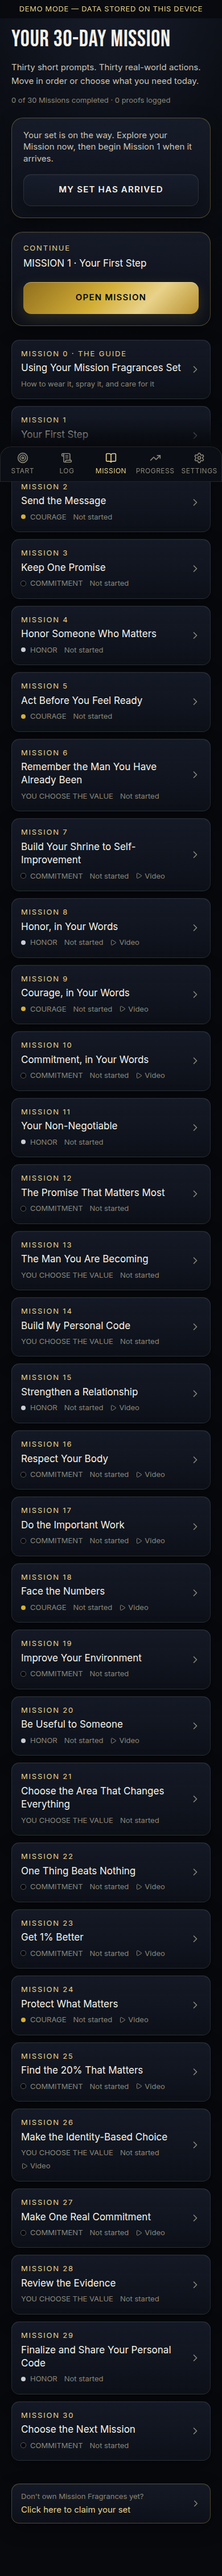
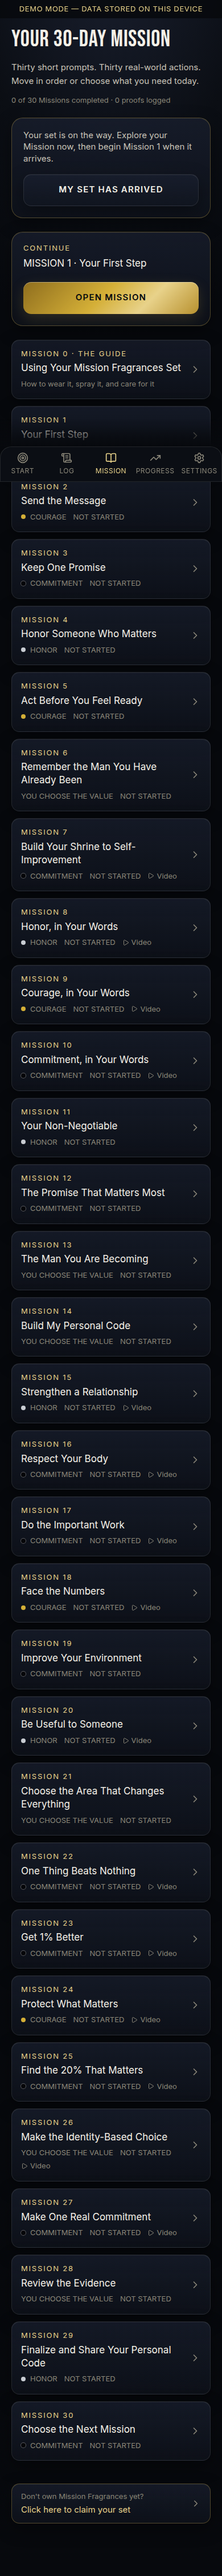
Copy audit: grammar, stale legal copy, wrong resend error, consistency
- Mission 2 quick action: 'Send, "Can we talk today?"' -> no stray comma.
- Missions 3/10/22 quick actions no longer dangle ('Complete five minutes'
  of WHAT): 'Spend five minutes on it.', 'Spend five focused minutes on
  what matters most today.', 'Do two minutes of it.'
- Mission 25 idea: 'A small number of actions creates most of the results
  that matter.' (agreement + missing 'of the').
- Missions 2/28 ideas: em dashes spaced to match the rest of the app.
- Verify screen: a failed RESEND said 'That code didn't work' — now
  'Couldn't resend the code. Wait a moment and try again.'
- Reset-Mission sheet: tense ('will go back to Not Started').
- Personal Code footer: 'Printing uses your browser's print dialog —
  nothing to install.'
- Privacy Policy: stale V1 'Goal' bullet replaced with the identity
  statement; Missions bullet now discloses question answers, proofs, and
  optional photos, and the personal-content promise covers them.
- Terms: 'select a quality' -> 'select a value'.
- Mission list: 'Not started' -> 'NOT STARTED' to match the other statuses.
- Walkthrough updated for the MISSION N IN PROGRESS card label; passing.

Claude-Session: https://claude.ai/code/session_01WVgj5E7JPb9xgPaaNWkVw6

diff --git a/src/content/missions.ts b/src/content/missions.ts
@@ -102,11 +102,11 @@ export const MISSIONS: MissionDef[] = [
     number: 2,
     slug: "m2",
     title: "Send the Message",
-    idea: "Every time you avoid a difficult conversation, you teach yourself that discomfort makes your decisions. Courage begins when you take the first honest step—not when fear disappears.",
+    idea: "Every time you avoid a difficult conversation, you teach yourself that discomfort makes your decisions. Courage begins when you take the first honest step — not when fear disappears.",
     recommendedTrigger: "courage",
     question: "What conversation, email, or message have you been avoiding?",
     actions: {
-      quick: "Send, “Can we talk today?”",
+      quick: "Send “Can we talk today?”",
       standard: "Send the email or message you have been postponing.",
       bold: "Call the person now.",
     },
@@ -121,7 +121,7 @@ export const MISSIONS: MissionDef[] = [
     recommendedTrigger: "commitment",
     question: "What is one small promise you can keep today?",
     actions: {
-      quick: "Complete five minutes of the task.",
+      quick: "Spend five minutes on it.",
       standard: "Do the workout, meal, call, or work block you planned.",
       bold: "Finish one overdue commitment completely.",
     },
@@ -251,7 +251,7 @@ export const MISSIONS: MissionDef[] = [
       "Doing what matters even when I do not feel like doing it.",
     ],
     actions: {
-      quick: "Complete five minutes.",
+      quick: "Spend five focused minutes on what matters most today.",
       standard: "Finish today’s planned action.",
       bold: "Return to something important you abandoned.",
     },
@@ -445,7 +445,7 @@ export const MISSIONS: MissionDef[] = [
     question:
       "What is the smallest version of an important action you can complete today?",
     actions: {
-      quick: "Do two minutes.",
+      quick: "Do two minutes of it.",
       standard: "Complete one clear portion.",
       bold: "Continue after starting and finish the entire task.",
     },
@@ -487,7 +487,7 @@ export const MISSIONS: MissionDef[] = [
     number: 25,
     slug: "m25",
     title: "Find the 20% That Matters",
-    idea: "A small number of actions create most meaningful results. Identify the work, habit, relationship, or decision that deserves disproportionate attention.",
+    idea: "A small number of actions creates most of the results that matter. Identify the work, habit, relationship, or decision that deserves disproportionate attention.",
     recommendedTrigger: "commitment",
     question:
       "What small set of actions creates the greatest result in your life right now?",
@@ -537,7 +537,7 @@ export const MISSIONS: MissionDef[] = [
     number: 28,
     slug: "m28",
     title: "Review the Evidence",
-    idea: "Your Mission Log now contains evidence—not wishes or intentions. Review what you have done and notice which actions most changed the way you see yourself.",
+    idea: "Your Mission Log now contains evidence — not wishes or intentions. Review what you have done and notice which actions most changed the way you see yourself.",
     recommendedTrigger: null,
     question:
       "Which completed action gives you the strongest evidence of the man you are becoming?",

diff --git a/src/app/privacy/page.tsx b/src/app/privacy/page.tsx
@@ -27,13 +27,14 @@ export default function PrivacyPage() {
             give us.
           </li>
           <li>
-            <strong className="text-ink-0">Goal:</strong> the broad goal you
-            choose during setup (for example &ldquo;Confidence&rdquo;).
+            <strong className="text-ink-0">Identity statement:</strong> the
+            sentence you write during setup about the man you are becoming.
           </li>
           <li>
             <strong className="text-ink-0">Missions:</strong> the trigger you
             select (Honor, Courage, or Commitment), the action you declare, its
-            status, timestamps, and any optional reflection you choose to write.
+            status, timestamps, the answers you write to Mission questions, the
+            proof you record, and any optional photo you choose to attach.
           </li>
           <li>
             <strong className="text-ink-0">Preferences:</strong> your reminder
@@ -66,9 +67,9 @@ export default function PrivacyPage() {
           <li>To operate, secure, debug, and improve the App.</li>
         </ul>
         <p>
-          Your declared actions and reflections are personal. We do not display
-          them publicly, sell them, use them for advertising, or send their
-          contents to analytics tools.
+          Your declared actions, written answers, proofs, and photos are
+          personal. We do not display them publicly, sell them, use them for
+          advertising, or send their contents to analytics tools.
         </p>
       </Section>
 

diff --git a/src/app/terms/page.tsx b/src/app/terms/page.tsx
@@ -20,7 +20,7 @@ export default function TermsPage() {
       <Section title="What the App is">
         <p>
           The App is a companion to Mission Fragrances — the Honor, Courage,
-          and Commitment Scent Triggers&reg;. It helps you select a quality — Honor, Courage, or Commitment
+          and Commitment Scent Triggers&reg;. It helps you select a value — Honor, Courage, or Commitment
           — declare a real-world action, apply the matching fragrance as a cue,
           take the action, and record the result in your Mission Log. It works
           with any fragrance you already own; owning the Mission Fragrances set is

diff --git a/src/app/(app)/missions/[number]/page.tsx b/src/app/(app)/missions/[number]/page.tsx
@@ -515,7 +515,7 @@ function MissionDetailInner({
         <Sheet
           open={confirmAbandon}
           title="RESET THIS MISSION?"
-          note="Your declared action will be removed and the Mission goes back to Not Started. Nothing you've logged elsewhere changes."
+          note="Your declared action will be removed and the Mission will go back to Not Started. Nothing you've logged elsewhere changes."
           onClose={() => setConfirmAbandon(false)}
         >
           <Button variant="danger" loading={pending} onClick={() => void abandon()}>

diff --git a/src/app/(app)/missions/page.tsx b/src/app/(app)/missions/page.tsx
@@ -62,7 +62,7 @@ function MissionCard({
             {status === "completed" && (
               <span className="text-[var(--success)]">COMPLETE</span>
             )}
-            {status === "not_started" && <span>Not started</span>}
+            {status === "not_started" && <span>NOT STARTED</span>}
             {mission.youtubeId && (
               <span className="flex items-center gap-1">
                 <Play size={12} aria-hidden />

diff --git a/src/app/(app)/personal-code/page.tsx b/src/app/(app)/personal-code/page.tsx
@@ -144,8 +144,8 @@ export default function PersonalCodePage() {
       </div>
 
       <p className="print-hide mt-8 text-center text-[13px] text-ink-2">
-        Tap any line to edit it. Print uses your browser&apos;s print — no app
-        needed.
+        Tap any line to edit it. Printing uses your browser&apos;s print dialog —
+        nothing to install.
       </p>
     </main>
   );

diff --git a/src/app/verify/page.tsx b/src/app/verify/page.tsx
@@ -69,7 +69,7 @@ function VerifyInner() {
       options: { shouldCreateUser: true },
     });
     if (otpError) {
-      setError("That code didn't work. Check it and try again, or resend.");
+      setError("Couldn't resend the code. Wait a moment and try again.");
     }
   }
 
